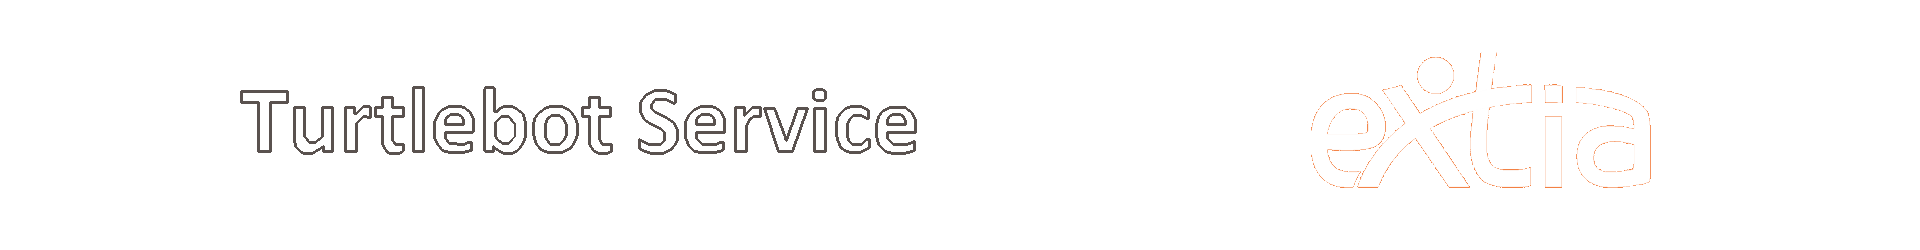
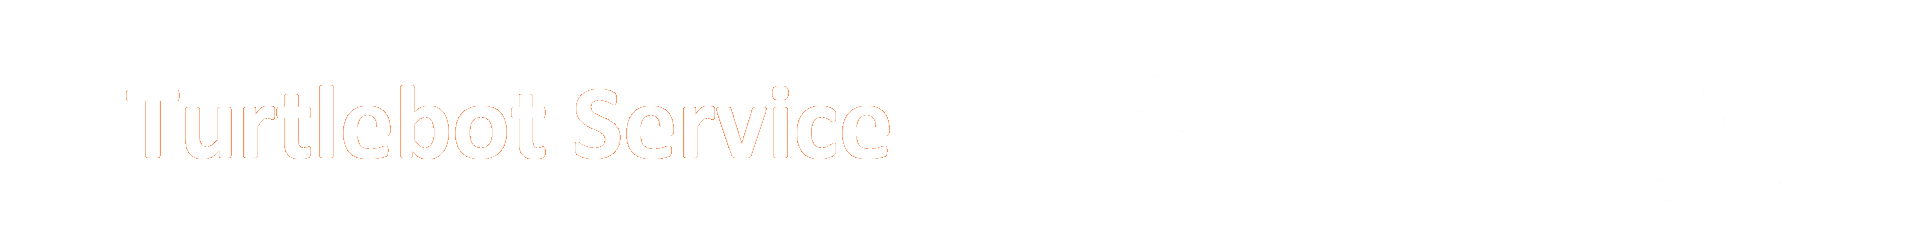
Design plus adapté
Les hauteurs sont en pourcentage pour avoir le même design quelque soit
la résolution (même sur mobile)
La liste du ca ne sort plus du cadre (gestion avec overflow en css)

diff --git a/web/css/styles.css b/web/css/styles.css
@@ -33,6 +33,7 @@ html,body {
   overflow-x:hidden !important;
   background-color: #394147;
   font-family: "extia";
+  font-size: 100%;
 }
 
 [class*="col-"] {
@@ -46,7 +47,7 @@ h1 {
 	font-weight: bold;
 	margin-top: 0px;
 	margin-bottom: 0px;
-	line-height: 120px;
+	line-height: 100px;
 	color: #F26e27;
 }
 
@@ -58,11 +59,11 @@ h1 {
 }
 
 .bandeau {
-	border: solid black 2px;
-	border-bottom: solid black 4px;
-	border-radius: 10px;
+	border: solid black 3px;
+	border-bottom: solid black 8px;
+	border-radius: 50px;
 	background-color: #F26e27;
-	margin:0px;
+	margin-top : 2%;
 }
 
 .mainpic {
@@ -97,12 +98,7 @@ a:hover:visited {
 
 /* Boutons edit, delete */
 
-.useraction:link {
-	color: black;
-	font-weight: bold;
-}
-
-.useraction:visited {
+.useraction {
 	color: black;
 	font-weight: bold;
 }
@@ -111,22 +107,28 @@ a:hover:visited {
 	color: #F26e27;
 }
 
-
 /* Zone du milieu */
 
 .midzone {
-	margin-top: 1%;
+	margin-top: 2%;
 }
 
+/* Menu */
+
+li {
+	line-height: 30px;
+	list-style-type:none;
+	font-size: 1.5em;
+}
 
 /* Zone principale */
 
 .mainzone {
 	background-color: white;
-	height:70%;
-	border: solid black 2px;
-	border-bottom: solid black 4px;
-	border-radius: 10px;
+	border: solid black 3px;
+	border-bottom: solid black 8px;
+	border-radius: 50px;
+	height: 60%;
 	color: #22313F;
 }
 
@@ -134,13 +136,22 @@ a:hover:visited {
 	color: #22313F;
 }
 
+.subzone {
+	overflow:auto;
+	max-height: 90%;
+	margin-top: 2.5%;
+}
 
-/* Gestion des options */
+
+/* Zone des options */
 
 .topoption {
-	line-height: 150px;
-	font-size: 180%;
-}
+	font-size: 200%;
+	margin-top: 10%;
+	margin-bottom: 60px;
+	margin-left: 100px;
+	margin-right: 100px;
+}	
 
 .topoption:hover {
 	color: #F26e27;
@@ -157,66 +168,6 @@ h3 {
 }
 
 
-/* Formulaires menu */
-
-.form_demo input{
-	color:black;
-}
-
-.inputbasic{
-	border: 1px solid grey;
-	border-radius: 2px;
-	padding: 5px;
-	background-position: center;
-	transition: all 1s linear;
-}
-
-.inputbasic:focus{
-	background-color: grey;
-	color: orange;
-}
-
-.user{
-	background-image: url(./assets/user.png);
-	background-repeat: no-repeat;
-	background-position: 2px 5px;
-	background-size: 15px;
-	padding-left: 25px;
-}
-
-.pswd{
-	background-image: url(./assets/password.png);
-	background-repeat: no-repeat;
-	background-position: 2px 5px;
-	background-size: 15px;
-	padding-left: 25px;
-}
-
-.form_demo input[type=submit]{
-	background-color: grey;
-	border: 1px solid orange;
-	padding: 5px;
-	border-radius: 2px;
-	color: orange;
-	transition: all 0.5s ease;
-}
-
-.form_demo input[type=submit]:hover{
-	background-color: darkorange;
-	color: white;
-	border-radius: 150px;
-}
-
-
-/* Menu */
-
-li {
-	line-height: 50px;
-	font-size: 1.3em;
-	list-style-type:none;
-}
-
-
 /* Tableaux */
 
 table {
@@ -224,6 +175,13 @@ table {
 	line-height: 30px;
 	text-align: center;
 	margin: auto;
+	border: solid black 1px;
+}
+
+th, td {
+	border: solid black 1px;
+	width: 1%;
+	text-align: center;
 }
 
 /* Centrer */

diff --git a/src/TBSBundle/Controller/ProductController.php b/src/TBSBundle/Controller/ProductController.php
@@ -16,7 +16,6 @@ class ProductController extends Controller
         return $this->render('TBSBundle:Product:index.html.twig');
     }
 
-
     public function addAction(Request $request){
         $p = new Product();
         $form = $this->createForm('TBSBundle\Form\ProductType', $p);
@@ -27,10 +26,7 @@ class ProductController extends Controller
             $em->persist($p);
             $em->flush();   
 
-
             return $this->redirect($this->generateUrl("tbs_index"));
-            
-
         }
        
 
